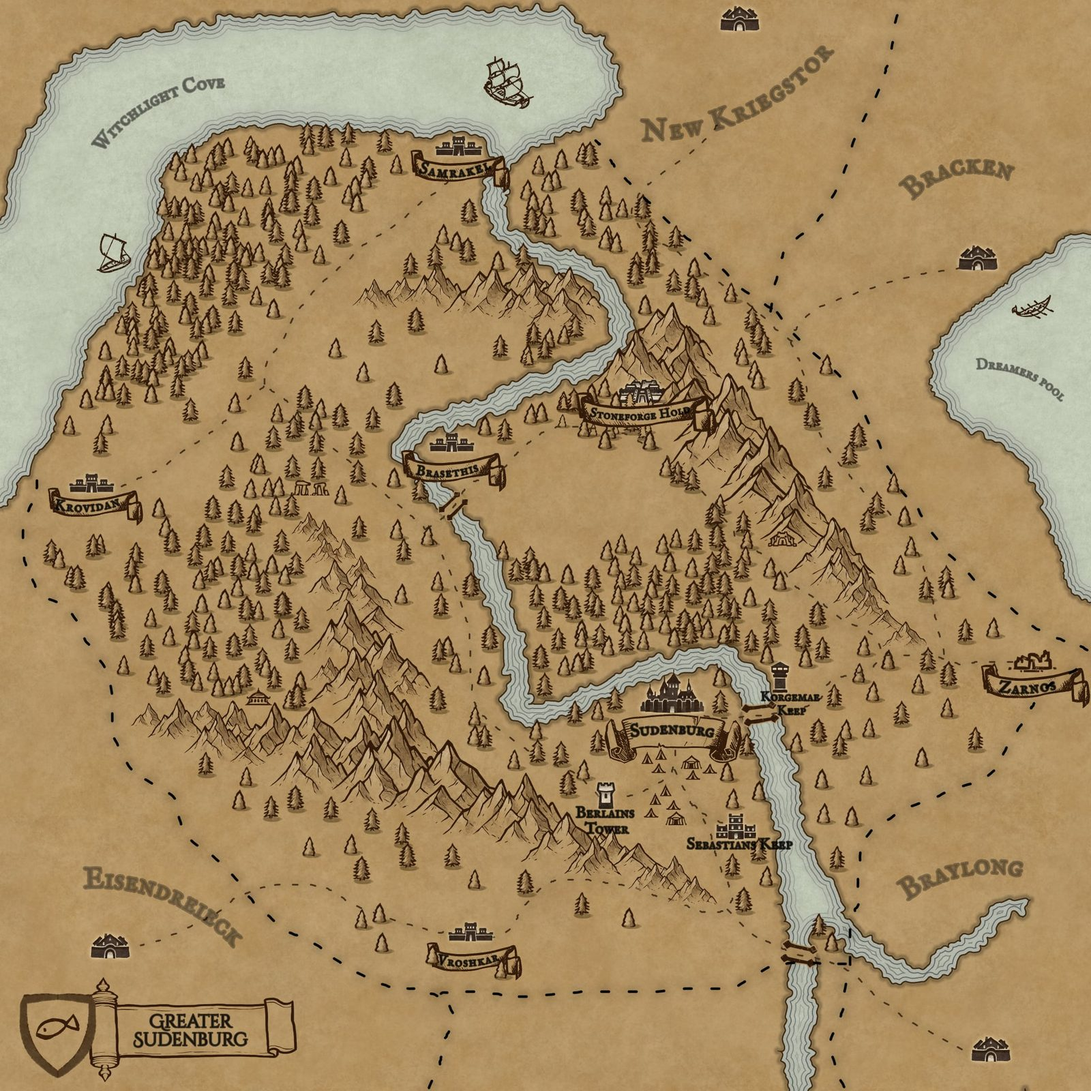
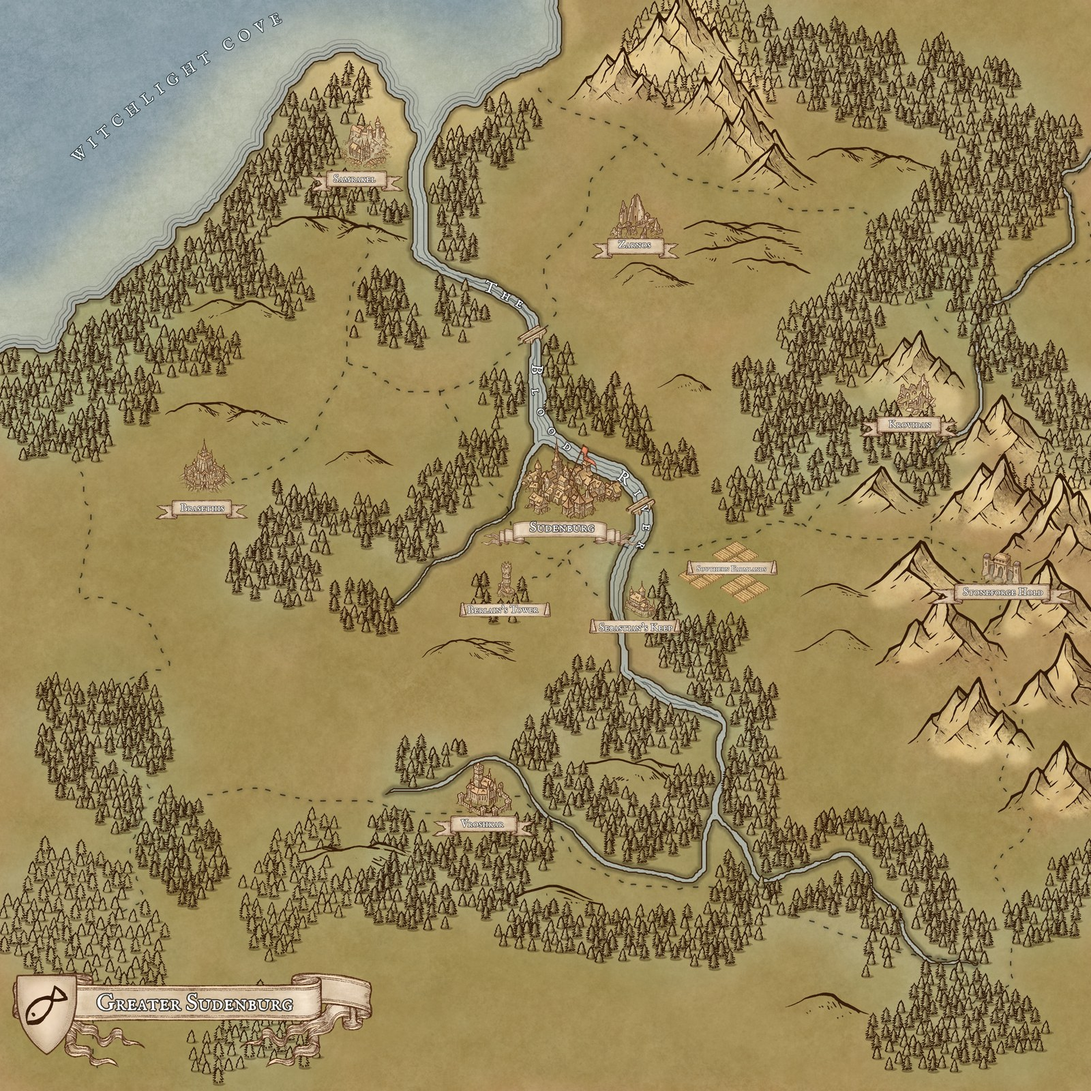
Add files via upload

diff --git a/dev/src/app1.js b/dev/src/app1.js
@@ -139,7 +139,7 @@ const DETAIL = {
 const SITE_SEED = {
   bracken: [["Bracken Village", .46, .47], ["Lumber Mill", .12, .09], ["Forest Glade", .18, .25], ["Ancient Ruin", .06, .37], ["Bridge", .90, .65], ["Arcane Ruins", .44, .06], ["Shadow Ruin", .11, .58], ["Frostgrave Watch Tower", .35, .92], ["Fort Blackridge", .54, .79], ["Abandoned Mine", .44, .88], ["Old Battlefield", .68, .83], ["Hidden Hut", .31, .79], ["Hunting Lodge", .71, .67], ["Caves", .86, .87], ["Ruined Hamlet", .79, .93], ["The Leap", .49, .83]],
   braylong: [["Braylong", .54, .50], ["Velaris", .58, .05], ["Halls of Aspiration", .61, .28], ["Ravenfield", .26, .25], ["Beacon Star", .21, .51], ["The Exchange", .12, .49], ["Tower of Vigilance", .73, .52], ["Edjerha", .50, .71], ["Sage Shrine", .23, .81], ["Rubrician", .61, .90], ["Broken Grotto", .85, .78]],
-  sudenburg: [["Sudenburg", .63, .63], ["Samrakel", .42, .14], ["Stoneforge Hold", .59, .36], ["Brasethis", .40, .40], ["Krovidan", .08, .43], ["Zarnos", .92, .58], ["Korgemar Keep", .72, .59], ["Berlain's Tower", .56, .70], ["Sebastian's Keep", .69, .72], ["Vroshkar", .43, .79]],
+  sudenburg: [["Sudenburg", .515, .44], ["Samrakel", .335, .145], ["Stoneforge Hold", .905, .525], ["Brasethis", .18, .435], ["Krovidan", .84, .375], ["Zarnos", .575, .205], ["Berlain's Tower", .46, .535], ["Sebastian's Keep", .59, .55], ["Southern Farmlands", .665, .53], ["Vroshkar", .44, .72]],
   helsreik: [["Helsreik", .33, .46], ["Outpost Diem", .19, .03], ["Timberward", .67, .40], ["Farm", .46, .47], ["Brinehaven", .15, .72], ["Bridge", .39, .52]],
   eisendreieck: [["Eisendreieck", .13, .80], ["Watchtower", .10, .70], ["The Foundry", .51, .14], ["The Mine", .69, .13], ["North-west encampment", .18, .12], ["North-east encampment", .82, .24], ["East encampment", .88, .46], ["Ruins (north)", .68, .28], ["Ruins (centre)", .56, .44], ["Ruins (west)", .45, .34], ["Ruins (east)", .78, .44], ["Ruins (south)", .69, .59], ["Ruins (south-east)", .78, .63], ["Ruins (south-west)", .51, .66], ["West farms", .18, .55], ["South farms", .27, .70], ["Far south farms", .54, .97], ["Waystation", .82, .92], ["The swamp", .16, .37], ["The Barrens", .93, .86]],
   handelsdorf: [["Handelsdorf", .52, .27], ["Golden Crescent", .46, .24], ["Dirge of the Tides", .49, .15], ["Floodfields", .58, .24], ["Saint Anissa Farm", .58, .29], ["Company of the Black Rose", .64, .31], ["East Lumber Mill", .71, .33], ["West Lumber Mill", .44, .33], ["Kleiner Marsh", .33, .29], ["Great Kurgan", .12, .31], ["Skjöldling Raiders", .19, .27], ["Shadow's Crew", .03, .36], ["Morvanth's Ribs", .49, .39], ["Bärenhurst", .72, .41], ["Peligrosa Lumber Mill", .15, .44], ["Weisshardt Farm", .29, .42], ["Crusaders of Aquitaine", .04, .47], ["Gezwitscher Plains", .30, .48], ["Graumorgen Weald", .45, .49], ["Blud Mine", .33, .55], ["Hügel Mine", .69, .52], ["Bloody Oaks Lumber Mill", .60, .56], ["Order of the Wyverns", .83, .48], ["Le Roche Mine", .03, .56], ["Notre Terre Farm", .04, .63], ["Sturmwald", .63, .61], ["Zwirchau Mine", .88, .59], ["Zweimond Lake", .28, .65], ["Alfeblod Lumber Mill", .20, .70], ["Akisen Legion", .45, .70], ["Broken Bridge", .75, .67], ["Doppelsöldner Mine", .95, .68], ["Farm ruins", .80, .72], ["Gräten Lake", .60, .77], ["Sab-Mith Mine", .04, .82], ["Fyremead Farm", .45, .83], ["Ashwood Path", .42, .97], ["Elves of the Everfrost", .08, .97]],

diff --git a/index.html b/index.html
@@ -635,7 +635,7 @@ const DETAIL = {
 const SITE_SEED = {
   bracken: [["Bracken Village", .46, .47], ["Lumber Mill", .12, .09], ["Forest Glade", .18, .25], ["Ancient Ruin", .06, .37], ["Bridge", .90, .65], ["Arcane Ruins", .44, .06], ["Shadow Ruin", .11, .58], ["Frostgrave Watch Tower", .35, .92], ["Fort Blackridge", .54, .79], ["Abandoned Mine", .44, .88], ["Old Battlefield", .68, .83], ["Hidden Hut", .31, .79], ["Hunting Lodge", .71, .67], ["Caves", .86, .87], ["Ruined Hamlet", .79, .93], ["The Leap", .49, .83]],
   braylong: [["Braylong", .54, .50], ["Velaris", .58, .05], ["Halls of Aspiration", .61, .28], ["Ravenfield", .26, .25], ["Beacon Star", .21, .51], ["The Exchange", .12, .49], ["Tower of Vigilance", .73, .52], ["Edjerha", .50, .71], ["Sage Shrine", .23, .81], ["Rubrician", .61, .90], ["Broken Grotto", .85, .78]],
-  sudenburg: [["Sudenburg", .63, .63], ["Samrakel", .42, .14], ["Stoneforge Hold", .59, .36], ["Brasethis", .40, .40], ["Krovidan", .08, .43], ["Zarnos", .92, .58], ["Korgemar Keep", .72, .59], ["Berlain's Tower", .56, .70], ["Sebastian's Keep", .69, .72], ["Vroshkar", .43, .79]],
+  sudenburg: [["Sudenburg", .515, .44], ["Samrakel", .335, .145], ["Stoneforge Hold", .905, .525], ["Brasethis", .18, .435], ["Krovidan", .84, .375], ["Zarnos", .575, .205], ["Berlain's Tower", .46, .535], ["Sebastian's Keep", .59, .55], ["Southern Farmlands", .665, .53], ["Vroshkar", .44, .72]],
   helsreik: [["Helsreik", .33, .46], ["Outpost Diem", .19, .03], ["Timberward", .67, .40], ["Farm", .46, .47], ["Brinehaven", .15, .72], ["Bridge", .39, .52]],
   eisendreieck: [["Eisendreieck", .13, .80], ["Watchtower", .10, .70], ["The Foundry", .51, .14], ["The Mine", .69, .13], ["North-west encampment", .18, .12], ["North-east encampment", .82, .24], ["East encampment", .88, .46], ["Ruins (north)", .68, .28], ["Ruins (centre)", .56, .44], ["Ruins (west)", .45, .34], ["Ruins (east)", .78, .44], ["Ruins (south)", .69, .59], ["Ruins (south-east)", .78, .63], ["Ruins (south-west)", .51, .66], ["West farms", .18, .55], ["South farms", .27, .70], ["Far south farms", .54, .97], ["Waystation", .82, .92], ["The swamp", .16, .37], ["The Barrens", .93, .86]],
   handelsdorf: [["Handelsdorf", .52, .27], ["Golden Crescent", .46, .24], ["Dirge of the Tides", .49, .15], ["Floodfields", .58, .24], ["Saint Anissa Farm", .58, .29], ["Company of the Black Rose", .64, .31], ["East Lumber Mill", .71, .33], ["West Lumber Mill", .44, .33], ["Kleiner Marsh", .33, .29], ["Great Kurgan", .12, .31], ["Skjöldling Raiders", .19, .27], ["Shadow's Crew", .03, .36], ["Morvanth's Ribs", .49, .39], ["Bärenhurst", .72, .41], ["Peligrosa Lumber Mill", .15, .44], ["Weisshardt Farm", .29, .42], ["Crusaders of Aquitaine", .04, .47], ["Gezwitscher Plains", .30, .48], ["Graumorgen Weald", .45, .49], ["Blud Mine", .33, .55], ["Hügel Mine", .69, .52], ["Bloody Oaks Lumber Mill", .60, .56], ["Order of the Wyverns", .83, .48], ["Le Roche Mine", .03, .56], ["Notre Terre Farm", .04, .63], ["Sturmwald", .63, .61], ["Zwirchau Mine", .88, .59], ["Zweimond Lake", .28, .65], ["Alfeblod Lumber Mill", .20, .70], ["Akisen Legion", .45, .70], ["Broken Bridge", .75, .67], ["Doppelsöldner Mine", .95, .68], ["Farm ruins", .80, .72], ["Gräten Lake", .60, .77], ["Sab-Mith Mine", .04, .82], ["Fyremead Farm", .45, .83], ["Ashwood Path", .42, .97], ["Elves of the Everfrost", .08, .97]],
